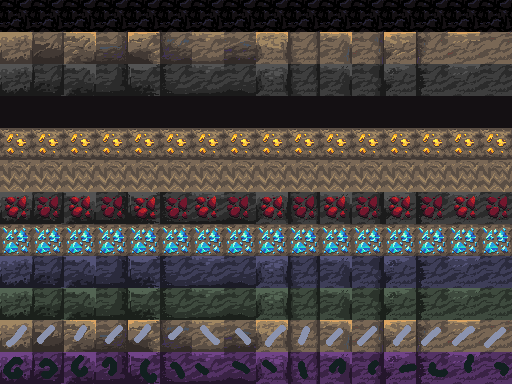
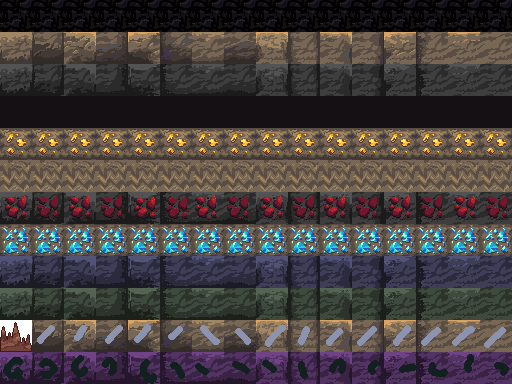
visual feedback on assetloader, Stalagmite blocks functional but WIP, crawler spawning tweaks

Changed region(s): [[0.0, 0.8125, 0.0625, 0.9375]]

diff --git a/js/actors/Stalagmite.js b/js/actors/Stalagmite.js
@@ -1,0 +1,78 @@
+class Stalagmite {
+    constructor(x,y){
+        this.x = x;
+        this.y = y-1;
+        this.spawnY = y - 1;
+        this.previousY = 0;
+        this.yvel = 0;
+        this.width = 32;
+        this.height = 32;
+        this.gravity = 0;
+        this.yvelLimit = 5;
+        this.health = 10;
+        this.collider = new Collider(this.x, this.y, this.width, this.height, {left: 0, right: 0, top: 0, bottom: -1}, "Stalagmite")
+    }
+    draw(){
+        drawTileSprite(tileSets.caveTileset, 16*10, this.x - view.x, this.y - view.y)
+        this.collider.draw();
+    }
+    update(){
+        if(!inView(this)) return;
+        this.previousY = this.y;
+        this.yvel += this.gravity;
+        this.collider.update(this.x, this.y)
+        if(this.yvel > this.yvelLimit) this.yvel = this.yvelLimit;
+        
+       this.handleCollisions();
+       
+    }
+
+    kill(){
+        emitParticles(this.x + 16, this.y + 16, particleDefinitions.fallSparks)
+        emitParticles(this.x + 16, this.y + 16, particleDefinitions.hurt)
+        actors.splice(actors.indexOf(this), 1);
+        audio.playSound(sounds[randChoice(rock_crumbles)])
+
+    }
+
+    handleCollisions(){
+        this.y += this.yvel;
+        this.collider.update(this.x, this.y)
+        const collisionInfo = rectCollision(this.collider, player.collider);
+        if(collisionInfo){
+            this.resolvePlayerCollision(collisionInfo);
+        }
+    }
+
+    resolvePlayerCollision(collisionInfo){
+        player.collisionInfo = collisionInfo;
+        if(collisionInfo.left || collisionInfo.right){
+            player.x = player.previousX;
+            player.updateCollider(player.x, player.y);
+            player.xvel = 0;
+            player.hurt(5);
+            if(Key.isDown(Key.z) || Joy.x){
+                this.kill();
+            }
+        }else if (collisionInfo.top){
+
+            player.y = player.previousY;
+            player.updateCollider(player.x, player.y);
+            player.yvel = Math.max(0, player.yvel);
+            this.kill();
+            player.hurt(5);
+
+        } else if(collisionInfo.bottom){
+            player.yvel = Math.min(0, player.yvel)
+            player.y = player.previousY-1;
+            player.updateCollider(player.x, player.y);
+            this.health--;
+            if(this.health <= 0){ this.kill(); }
+            ;
+            player.canJump = true;
+            if(Key.isDown(Key.z) || Joy.x){
+                this.kill();
+            }
+        }
+    }
+}

diff --git a/js/core/AssetLoader.js b/js/core/AssetLoader.js
@@ -16,7 +16,15 @@ AssetLoader.prototype.loadImages = function loadImages(names, callback) {
                 this.images = result;
                 callback();
             }
-        }
+
+            canvasContext.fillStyle = '#000000';
+            canvasContext.fillRect(0, 0, canvas.width, canvas.height);
+            canvasContext.fillStyle = '#ffff00';
+            canvasContext.fillRect(0, 0, (count / names.length) * canvas.width, 20);
+            canvasContext.font = '10px monospace';
+            canvasContext.fillText(`loading images async`, 10, 40);
+
+          }
     
     for(n = 0 ; n < names.length ; n++) {
         name = names[n];
@@ -72,6 +80,18 @@ AssetLoader.prototype.loadBuffer = function(url, key) {
           console.log('all sounds loaded');
           loader.onSoundsLoaded(loader.sounds);
         }
+
+        canvasContext.fillStyle = '#000000';
+        canvasContext.fillRect(0, 0, canvas.width, canvas.height);
+        canvasContext.fillStyle = '#00ff00';
+        canvasContext.fillRect(0, 0, (loader.loadCount / loader.urlList.length) * canvas.width, 20);
+        canvasContext.font = '10px monospace';
+
+        let consoleText = `loading sound: ${key}`;
+        if(++loader.loadCount == loader.urlList.length){
+          consoleText = 'all sounds loaded';
+        }
+        canvasContext.fillText(consoleText, 10, 40);
         
       },
       function(error) {

diff --git a/js/main.js b/js/main.js
@@ -304,9 +304,27 @@ function populateMap(){
     for (let i = 0; i < 10000; i++) {
         let x = Math.floor(mapRNG() * tileMap.widthInTiles);
         let y = Math.floor(mapRNG() * tileMap.heightInTiles);
-        if(tileMap.getTileAtPosition(x, y) === TILE_EMPTY && tileMap.getTileAtPosition(x, y+1) != TILE_EMPTY){
+        if(tileMap.getTileAtPosition(x, y) === TILE_EMPTY){
+            //check downward until we find a solid tile
+            while(tileMap.getTileAtPosition(x, y) === TILE_EMPTY){
+                y++;
+            }
             actors.push(
-                new Crawler(x * tileMap.tileWidth, y * tileMap.tileHeight)
+                new Crawler(x * tileMap.tileWidth, (y-1) * tileMap.tileHeight)
+            )
+        }
+    }
+
+    for (let i = 0; i < 10000; i++) {
+        let x = Math.floor(mapRNG() * tileMap.widthInTiles);
+        let y = Math.floor(mapRNG() * tileMap.heightInTiles);
+        if(tileMap.getTileAtPosition(x, y) === TILE_EMPTY){
+            //check downward until we find a solid tile
+            while(tileMap.getTileAtPosition(x, y) === TILE_EMPTY){
+                y++;
+            }
+            actors.push(
+                new Stalagmite(x * tileMap.tileWidth, (y-1) * tileMap.tileHeight)
             )
         }
     }

diff --git a/index.html b/index.html
@@ -38,6 +38,7 @@
         <script src="js/actors/Transition.js"></script>
         <script src="js/actors/Diggerang.js"></script>
         <script src="js/actors/FallingRock.js"></script>
+        <script src="js/actors/Stalagmite.js"></script>
         <script src="js/actors/Collectible.js"></script>
         <script src="js/actors/Segment.js"></script>
         <script src="js/actors/Arm.js"></script>
@@ -57,7 +58,7 @@
 
         <!-- and finally our game data and main entry point -->
         <script src="js/gameData/config.js"></script>
-        <script src="js/actors/ui.js"></script>
+        <script src="js/actors/ui.js"></script> 
         <script src="js/gameData/rooms.js"></script>
         <script src = "js/main.js"></script>
         <script src="js/gameData/events.js"></script>
